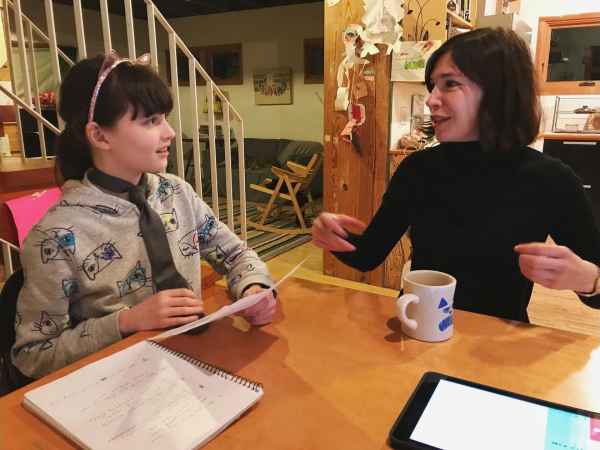
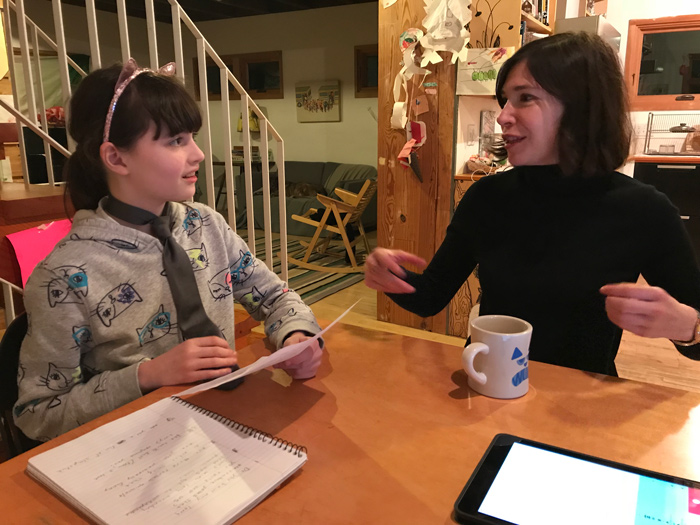
Updated

diff --git a/beasbiglaughs/index.html b/beasbiglaughs/index.html
@@ -28,7 +28,7 @@
 					<li>
 						<figure><img width="250px" src="items/beas_big_laughs/thumbs/beas_big_laughs.png" alt="" /></figure>
 					</li>
-					<li><figure><img src="items/beas_big_laughs/thumbs/bea_carrie.jpg" alt="Bea with Carrie Brownstein" />
+					<li><figure><img width="250px" src="items/beas_big_laughs/thumbs/bea_carrie.jpg" alt="Bea with Carrie Brownstein" />
 							<figcaption><p>Bea with Carrie Brownstein </p></figcaption>    
 						</figure>
 					</li>
@@ -44,7 +44,7 @@
 					<li><figure><img  width="450px" src="items/beas_big_laughs/large/beas_big_laughs.png" alt="" />
 					</figure></li>
 
-					<li><figure><img src="items/beas_big_laughs/large/bea_carrie.jpg" alt="Bea with Carrie Brownstein" />
+					<li><figure><img height="450px" src="items/beas_big_laughs/large/bea_carrie.jpg" alt="Bea with Carrie Brownstein" />
 							<figcaption><p>Carrie Brownstein being interviewed at Bea’s house in Portland, Oregon on November 15th 2017</p></figcaption>
 					</figure></li>		
 					</ul>
